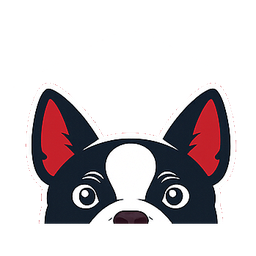
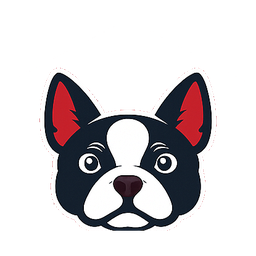
Fix OpenAI Responses payload; replace cropped mark; expand deployment README

Changed region(s): [[0.0938, 0.2812, 0.9062, 0.9062]]

diff --git a/apps/nutrition/vision.py b/apps/nutrition/vision.py
@@ -1,9 +1,13 @@
 import base64
 from io import BytesIO
 import json
+import logging
 import os
 
 import requests
+
+
+logger = logging.getLogger(__name__)
 
 
 def _image_to_jpeg_b64(image_path: str) -> str:
@@ -31,6 +35,27 @@ def _extract_output_text(payload: dict) -> str:
     raise ValueError("No output text found in response payload")
 
 
+def _coerce_json_object(text: str) -> dict:
+    text = (text or "").strip()
+    if not text:
+        raise ValueError("Empty model output")
+
+    try:
+        obj = json.loads(text)
+        if isinstance(obj, dict):
+            return obj
+        raise ValueError("Model output was JSON but not an object")
+    except json.JSONDecodeError:
+        # Best-effort salvage if the model wrapped the JSON in extra text.
+        start = text.find("{")
+        end = text.rfind("}")
+        if start != -1 and end != -1 and end > start:
+            obj = json.loads(text[start : end + 1])
+            if isinstance(obj, dict):
+                return obj
+        raise ValueError("Model returned invalid JSON")
+
+
 def recognize_food(image_path: str) -> dict:
     api_key = os.getenv("OPENAI_API_KEY")
     if not api_key:
@@ -38,9 +63,15 @@ def recognize_food(image_path: str) -> dict:
 
     image_b64 = _image_to_jpeg_b64(image_path)
 
+    # Responses API request shape:
+    # - inputs use {"type":"input_text"} / {"type":"input_image","image_url":"..."} items
+    # - structured output is configured via text.format (not response_format)
     response = requests.post(
         "https://api.openai.com/v1/responses",
-        headers={"Authorization": f"Bearer {api_key}"},
+        headers={
+            "Authorization": f"Bearer {api_key}",
+            "Content-Type": "application/json",
+        },
         json={
             "model": os.getenv("OPENAI_MODEL", "gpt-4o-mini"),
             "input": [
@@ -50,8 +81,9 @@ def recognize_food(image_path: str) -> dict:
                         {
                             "type": "input_text",
                             "text": (
-                                "Identify the food in the image and return JSON with keys "
-                                "name, calories, protein_g, carbs_g, fat_g, fiber_g, sugar_g, sodium_mg."
+                                "Identify the food in the image and return ONLY a JSON object with keys: "
+                                "name, calories, protein_g, carbs_g, fat_g, fiber_g, sugar_g, sodium_mg. "
+                                "Use numbers for all *_g, calories, sodium_mg. Use best effort estimates."
                             ),
                         },
                         {
@@ -61,14 +93,25 @@ def recognize_food(image_path: str) -> dict:
                     ],
                 }
             ],
-            "response_format": {"type": "json_object"},
+            "text": {"format": {"type": "json_object"}},
+            "temperature": 0.2,
         },
         timeout=30,
     )
-    response.raise_for_status()
+    try:
+        response.raise_for_status()
+    except requests.HTTPError:
+        # Log enough to debug in server logs; never return this to the user directly.
+        request_id = response.headers.get("x-request-id") or response.headers.get("x-request-id".upper())
+        body = (response.text or "")[:1200]
+        logger.error(
+            "OpenAI /v1/responses failed status=%s request_id=%s body=%s",
+            response.status_code,
+            request_id,
+            body,
+        )
+        raise
+
     payload = response.json()
     output_text = _extract_output_text(payload)
-    try:
-        return json.loads(output_text)
-    except json.JSONDecodeError as exc:
-        raise ValueError("Model returned invalid JSON") from exc
+    return _coerce_json_object(output_text)

diff --git a/README.md b/README.md
@@ -5,6 +5,10 @@ Fitness tracking app (workouts, nutrition, goals, notifications) with:
 - Per-user data isolation (all models are user-owned and views are scoped to `request.user`)
 - Food photo recognition (OpenAI) + nutrition lookup (USDA)
 
+Production instance (example):
+- Domain: `https://terrierfit.com/`
+- App server (Gunicorn): `127.0.0.1:8010` behind Nginx
+
 ## Quickstart (Local Dev)
 Prereqs: Python 3.10+
 
@@ -39,8 +43,12 @@ Auth:
 ## Integrations (Optional)
 Set in `.env` (do not commit `.env`):
 - `USDA_API_KEY`: enables USDA FoodData Central lookup
-- `OPENAI_API_KEY`: enables food photo recognition
+- `OPENAI_API_KEY`: enables food photo recognition (OpenAI Responses API)
 - `OPENAI_MODEL`: model for recognition (e.g. `gpt-4.1-mini`)
+
+OpenAI notes:
+- This project uses the OpenAI Responses API endpoint `POST /v1/responses`.
+- Structured JSON output is requested via `text.format: { type: "json_object" }` (older `response_format` will 400).
 
 ## Notifications
 Goal reminders command:
@@ -48,6 +56,25 @@ Goal reminders command:
 
 ## Production Notes
 This repo supports environment-based config via `.env` (loaded by `python-dotenv`).
+
+### Environment Variables
+Common variables (matches `.env.example`):
+- `DJANGO_ENV`: `development` or `production` (used to toggle sensible defaults)
+- `DJANGO_DEBUG`: `1` enables debug, `0` disables (must be `0` in production)
+- `DJANGO_SECRET_KEY`: Django secret key (required in production; never commit)
+- `DJANGO_ALLOWED_HOSTS`: comma-separated hosts (e.g. `terrierfit.com,www.terrierfit.com,127.0.0.1,localhost`)
+- `DJANGO_CSRF_TRUSTED_ORIGINS`: comma-separated origins including scheme (e.g. `https://terrierfit.com,https://www.terrierfit.com`)
+- `DJANGO_LOG_LEVEL`: `DEBUG`/`INFO`/`WARNING`/`ERROR`
+- `FOOD_PHOTO_MAX_UPLOAD_SIZE`: max upload bytes for food photo (default 5MB)
+- `DJANGO_DATA_UPLOAD_MAX_MEMORY_SIZE`: Django request body limit in bytes
+- `DJANGO_SECURE_PROXY_SSL_HEADER`: `1` if running behind a TLS-terminating proxy (Nginx/ALB) setting `X-Forwarded-Proto`
+- `DJANGO_SECURE_SSL_REDIRECT`: `1` to redirect HTTP->HTTPS at Django layer (often handled by Nginx instead)
+- `DJANGO_SECURE_COOKIES`: `1` to set secure cookies (recommended for HTTPS)
+- `USDA_API_KEY`: USDA FoodData Central key (optional)
+- `OPENAI_API_KEY`: OpenAI key for photo recognition (optional, required for recognition to work)
+- `OPENAI_MODEL`: model name for photo recognition (e.g. `gpt-4.1-mini`)
+- `DEFAULT_FROM_EMAIL`: email sender (from)
+- `DEFAULT_NOTIFICATION_EMAIL`: email recipient for notifications (to)
 
 Minimum required env for production:
 - `DJANGO_ENV=production`
@@ -70,3 +97,37 @@ High-level:
    - `python manage.py collectstatic --noinput`
 5. Run Gunicorn via systemd (bind to `127.0.0.1:8010`), and reverse-proxy via Nginx.
 6. Use Certbot to enable HTTPS.
+
+### Domain + Nginx (same EIP as other site)
+If you already have another domain on the same Elastic IP (for example `reskin.ink`), you bind this app by adding another server block using `server_name terrierfit.com www.terrierfit.com` and proxying to a different upstream port (here: `8010`).
+
+Minimal Nginx shape (conceptual):
+```nginx
+server {
+  listen 443 ssl;
+  server_name terrierfit.com www.terrierfit.com;
+
+  location /static/ { alias /home/ec2-user/fitness-manager/staticfiles/; }
+  location /media/  { alias /home/ec2-user/fitness-manager/media/; }
+
+  location / {
+    proxy_set_header Host $host;
+    proxy_set_header X-Forwarded-Proto $scheme;
+    proxy_set_header X-Forwarded-For $proxy_add_x_forwarded_for;
+    proxy_pass http://127.0.0.1:8010;
+  }
+}
+```
+
+After code updates on the server:
+1. `python manage.py migrate --noinput`
+2. `python manage.py collectstatic --noinput`
+3. `sudo systemctl restart fitness-manager`
+4. `sudo nginx -t && sudo systemctl reload nginx`
+
+### HTTPS (Certbot)
+One-time (example):
+- `sudo certbot --nginx -d terrierfit.com -d www.terrierfit.com`
+
+Renewal (typical):
+- `sudo certbot renew --dry-run`
